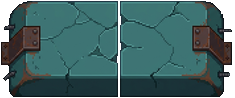
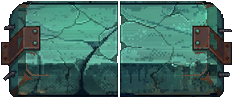
L9 v541: концы ленты конвейера скруглены (без неподвижных барабанов), торцы пола в фактуре и цвете основного пола, у ленты торцов нет

diff --git a/index.html b/index.html
@@ -45,58 +45,58 @@
   <div class="tb" id="bP" data-a="pause">II</div>
   <div class="tb" id="bE" data-a="start">OK</div>
 </div>
-<script src="js/webp_list.js?v=537"></script>
-<script src="js/engine.js?v=537"></script>
-<script src="js/sprites_data.js?v=537"></script>
-<script src="js/sprites.js?v=537"></script>
-<script src="js/art.js?v=537"></script>
-<script src="js/game.js?v=537"></script>
-<script src="js/cutscene.js?v=537"></script>
-<script src="js/level1.js?v=537"></script>
-<script src="js/level2.js?v=537"></script>
-<script src="js/level3.js?v=537"></script>
-<script src="js/level4.js?v=537"></script>
-<script src="js/level5.js?v=537"></script>
-<script src="js/level5render.js?v=537"></script>
-<script src="js/level5world.js?v=537"></script>
-<script src="js/level5ent.js?v=537"></script>
-<script src="js/level5logic.js?v=537"></script>
-<script src="js/level5extra.js?v=537"></script>
-<script src="js/level5scenes.js?v=537"></script>
-<script src="js/level6.js?v=537"></script>
-<script src="js/level6foes.js?v=537"></script>
-<script src="js/level6run.js?v=537"></script>
-<script src="js/level6boss.js?v=537"></script>
-<script src="js/level6scenes.js?v=537"></script>
-<script src="js/level7.js?v=537"></script>
-<script src="js/level7map.js?v=537"></script>
-<script src="js/level7mg.js?v=537"></script>
-<script src="js/level7run.js?v=537"></script>
-<script src="js/level7scenes.js?v=537"></script>
-<script src="js/l7v4_props.js?v=537"></script>
-<script src="js/level7v4.js?v=537"></script>
-<script src="js/level7v4run.js?v=537"></script>
-<script src="js/level7v4maps.js?v=537"></script>
-<script src="js/level7v4scenes.js?v=537"></script>
-<script src="js/level7v4in.js?v=537"></script>
-<script src="js/l7v4_adm_props.js?v=537"></script>
-<script src="js/level7v4adm.js?v=537"></script>
-<script src="js/l7v4_hall_data.js?v=537"></script>
-<script src="js/level7v4hall.js?v=537"></script>
-<script src="js/l8_data.js?v=537"></script>
-<script src="js/level8.js?v=537"></script>
-<script src="js/level8map.js?v=537"></script>
-<script src="js/level8map2.js?v=537"></script>
-<script src="js/level8boss.js?v=537"></script>
-<script src="js/l9_data.js?v=537"></script>
-<script src="js/level9.js?v=537"></script>
-<script src="js/level9tun.js?v=537"></script>
-<script src="js/level9lab.js?v=537"></script>
-<script src="js/level9foes.js?v=537"></script>
-<script src="js/level9labmap.js?v=537"></script>
-<script src="js/level9traps.js?v=537"></script>
-<script src="js/level9movers.js?v=537"></script>
-<script src="js/level9arrive.js?v=537"></script>
-<script src="js/main.js?v=537"></script>
+<script src="js/webp_list.js?v=541"></script>
+<script src="js/engine.js?v=541"></script>
+<script src="js/sprites_data.js?v=541"></script>
+<script src="js/sprites.js?v=541"></script>
+<script src="js/art.js?v=541"></script>
+<script src="js/game.js?v=541"></script>
+<script src="js/cutscene.js?v=541"></script>
+<script src="js/level1.js?v=541"></script>
+<script src="js/level2.js?v=541"></script>
+<script src="js/level3.js?v=541"></script>
+<script src="js/level4.js?v=541"></script>
+<script src="js/level5.js?v=541"></script>
+<script src="js/level5render.js?v=541"></script>
+<script src="js/level5world.js?v=541"></script>
+<script src="js/level5ent.js?v=541"></script>
+<script src="js/level5logic.js?v=541"></script>
+<script src="js/level5extra.js?v=541"></script>
+<script src="js/level5scenes.js?v=541"></script>
+<script src="js/level6.js?v=541"></script>
+<script src="js/level6foes.js?v=541"></script>
+<script src="js/level6run.js?v=541"></script>
+<script src="js/level6boss.js?v=541"></script>
+<script src="js/level6scenes.js?v=541"></script>
+<script src="js/level7.js?v=541"></script>
+<script src="js/level7map.js?v=541"></script>
+<script src="js/level7mg.js?v=541"></script>
+<script src="js/level7run.js?v=541"></script>
+<script src="js/level7scenes.js?v=541"></script>
+<script src="js/l7v4_props.js?v=541"></script>
+<script src="js/level7v4.js?v=541"></script>
+<script src="js/level7v4run.js?v=541"></script>
+<script src="js/level7v4maps.js?v=541"></script>
+<script src="js/level7v4scenes.js?v=541"></script>
+<script src="js/level7v4in.js?v=541"></script>
+<script src="js/l7v4_adm_props.js?v=541"></script>
+<script src="js/level7v4adm.js?v=541"></script>
+<script src="js/l7v4_hall_data.js?v=541"></script>
+<script src="js/level7v4hall.js?v=541"></script>
+<script src="js/l8_data.js?v=541"></script>
+<script src="js/level8.js?v=541"></script>
+<script src="js/level8map.js?v=541"></script>
+<script src="js/level8map2.js?v=541"></script>
+<script src="js/level8boss.js?v=541"></script>
+<script src="js/l9_data.js?v=541"></script>
+<script src="js/level9.js?v=541"></script>
+<script src="js/level9tun.js?v=541"></script>
+<script src="js/level9lab.js?v=541"></script>
+<script src="js/level9foes.js?v=541"></script>
+<script src="js/level9labmap.js?v=541"></script>
+<script src="js/level9traps.js?v=541"></script>
+<script src="js/level9movers.js?v=541"></script>
+<script src="js/level9arrive.js?v=541"></script>
+<script src="js/main.js?v=541"></script>
 </body>
 </html>

diff --git a/js/level9labmap.js b/js/level9labmap.js
@@ -309,8 +309,8 @@
       const t = P.t;
       // лента конвейера: бесшовная середина крутится влево, по краям торцы с барабанами; на ней лежат тела
       for (const B of BELTS) { if (B.x1 < P.cam.x - 100 || B.x0 > P.cam.x + 740) continue; const BELT = [B.x0, B.x1]; const BK = 1.8, [ew] = L9.size('belt9b', 'endL'), [mw, mh] = L9.size('belt9b', 'mid'), y = 316 + mh * BK / 2, x0 = BELT[0] + ew * BK * 0.2, x1 = BELT[1] - ew * BK * 0.2, PER = mw * BK - 1, sh = ((t * -B.v) % PER + PER) % PER;
-        S(c, 'belt9b', 'endL', BELT[0] + ew * BK / 2, y, BK); S(c, 'belt9b', 'endR', BELT[1] - ew * BK / 2, y, BK);     /* барабаны под лентой: видно только скругление у края */
-        c.save(); c.beginPath(); c.rect(x0, y - 40, x1 - x0, 80); c.clip(); for (let x = x0 - sh; x < x1; x += mw * BK - 1) S(c, 'belt9b', 'mid', x + mw * BK / 2, y, BK); c.restore(); }     /* лента одним куском едет почти до края */
+        const bh = mh * BK, X0 = BELT[0] - 3, X1 = BELT[1] + 3;     /* концы ленты скруглены — лента огибает барабан; неподвижных кусков нет */
+        c.save(); c.beginPath(); c.roundRect(X0, y - bh / 2, X1 - X0, bh, bh * 0.42); c.clip(); for (let x = X0 - sh; x < X1; x += PER) S(c, 'belt9b', 'mid', x + mw * BK / 2, y, BK); c.restore(); }
       for (const r of M.riders) {     // упавшее тело уходит под поверхность жижи (рисуем только то, что выше неё)
         if (r.fall && r.y > 326) { c.save(); c.beginPath(); c.rect(r.x - 80, r.y - 120, 160, 336 - (r.y - 120)); c.clip(); S(c, 'body9', r.k, r.x, r.y + 1, 0.85, { rot: r.rot || 0 }); c.restore(); }
         else S(c, 'body9', r.k, r.x, r.y + 1, 0.85, { rot: r.rot || 0 });

diff --git a/js/level9lab.js b/js/level9lab.js
@@ -232,7 +232,7 @@
           for (const [s0, s1] of seg) c.rect(s0, r[1] - 8, s1 - s0, FH + 4);
           c.clip(); for (let x = r[0] - ((r[0] % fw) + fw) % fw; x < r[0] + r[2]; x += fw) c.drawImage(fim, Math.floor(x), r[1] - 7, Math.ceil(fw) + 1, FH); c.restore();
           if (L9.img.flE9 && r[3] >= 40) for (const [s0, s1] of seg) { const [ew] = L9.size('flE9', 'endL'), k = FH / 48, w = ew * k;     // законченные торцы плиты (скруглённый угол, уголок на болтах)
-            if (s1 - s0 > w * 2) { S(c, 'flE9', 'endL', s0 - 3 + w / 2, r[1] - 7 + FH / 2, k); S(c, 'flE9', 'endR', s1 + 3 - w / 2, r[1] - 7 + FH / 2, k); } } }
+            if (s1 - s0 > w * 2) { if (s0 === r[0]) S(c, 'flE9', 'endL', s0 - 3 + w / 2, r[1] - 7 + FH / 2, k); if (s1 === r[0] + r[2]) S(c, 'flE9', 'endR', s1 + 3 - w / 2, r[1] - 7 + FH / 2, k); } } }     // у ленты конвейера торцов нет — там стык
       }
       LAB.drawPillars(c, M, x0, x1, FH);
       M.drawOnFloor && M.drawOnFloor(c, P);

diff --git a/js/engine.js b/js/engine.js
@@ -1,7 +1,7 @@
 'use strict';
 // ============ ДВИЖОК: экран, ввод, звук, утилиты, частицы, текст ============
 const W = 640, H = 360;
-const G = { W, H, t: 0, dt: 0, debug: false, VER: '537' };
+const G = { W, H, t: 0, dt: 0, debug: false, VER: '541' };
 window.G = G;
 
 const canvas = document.getElementById('game');

diff --git a/tools/build_l9.py b/tools/build_l9.py
@@ -388,7 +388,22 @@ if FLOOR_PICK and have(FLOOR_PICK):
     band.save(os.path.join(OUT, 'labFloor.png')); DATA.setdefault('_bgp', {})['labFloor'] = 1
 if have('l9flE_0.jpg'):     # законченные торцы плиты пола (Flow): скруглённый угол, уголок на болтах; внутренний край — ровный срез
     _e = [trim(rgba_m('l9flE_0.jpg', b)) for b in ((40, 150, 600, 620), (800, 150, 1340, 620))]
-    pack('flE9', _e, 96 / _e[0].height, anchor='mid', names=['endL', 'endR'])
+    _bd = np.asarray(Image.open(os.path.join(OUT, 'labFloor.png')).convert('RGB')).astype(np.float32); _o = []
+    for _i, _im in enumerate(_e):     # цвет и фактура — из полосы пола (без стыка); от торца Flow — форма, тени скругления и уголок на болтах
+        _im = _im.resize((round(_im.width * 96 / _im.height), 96), Image.LANCZOS); a_ = np.asarray(_im).astype(np.float32); al = a_[..., 3] > 110; W_ = a_.shape[1]
+        tx = _bd[:, :W_] if _i == 0 else _bd[:, -W_:]
+        L_ = a_[..., :3].mean(2); rm = np.array([L_[y][al[y]].mean() if al[y].any() else 1 for y in range(96)])[:, None]
+        sh_ = np.clip(L_ / np.maximum(rm, 1), 0.45, 1.35)
+        out = tx * sh_[..., None]
+        rust = al & (a_[..., 0] > a_[..., 1] + 12) & (a_[..., 0] > a_[..., 2] + 12)
+        bolt = al & ~rust & (np.abs(a_[..., :3] - tx).mean(2) > 0) & (np.arange(W_)[None, :] < W_ * 0.14 if _i == 0 else np.arange(W_)[None, :] > W_ * 0.86)
+        bm = _bd.mean(1)     # построчно к среднему цвету всей полосы пола — торец не светлее и не темнее
+        for y in range(96):
+            m_ = al[y] & ~rust[y]
+            if m_.sum() > 2: out[y, m_] *= bm[y] / np.maximum(out[y, m_].mean(0), 1)
+        out[rust | bolt] = a_[..., :3][rust | bolt]
+        _o.append(Image.fromarray(np.dstack([out.clip(0, 255), np.where(al, 255, 0)]).astype(np.uint8)))
+    pack('flE9', _o, 1.0, anchor='mid', names=['endL', 'endR'])
 if have('l9unload_0.jpg'):     # рука-разгрузчик: 4 кадра сеткой по столбцам, в кадре только рука (связанная с верхом), тело рисуем своё
     from scipy import ndimage
     ua = rgba_m('l9unload_0.jpg'); W_, H_ = ua.size; fr_ = []
